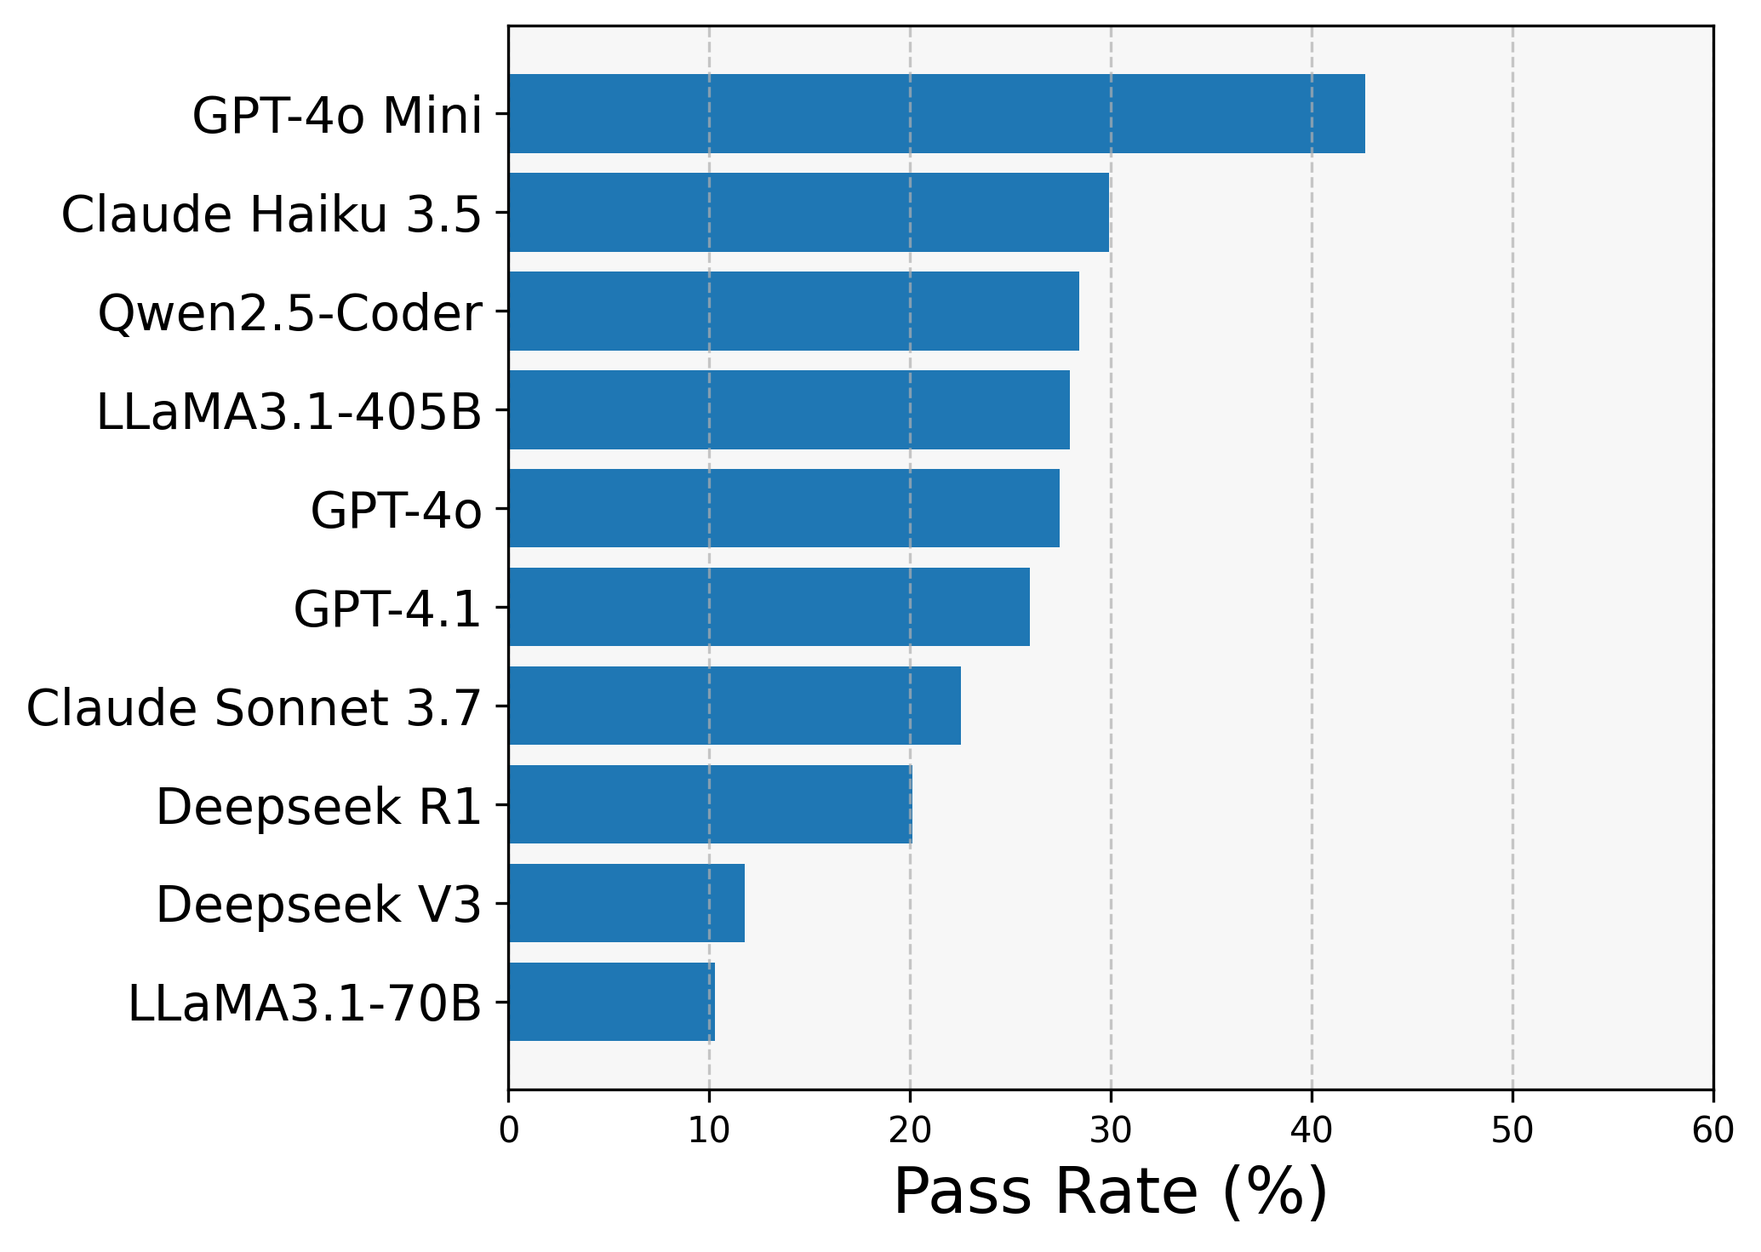
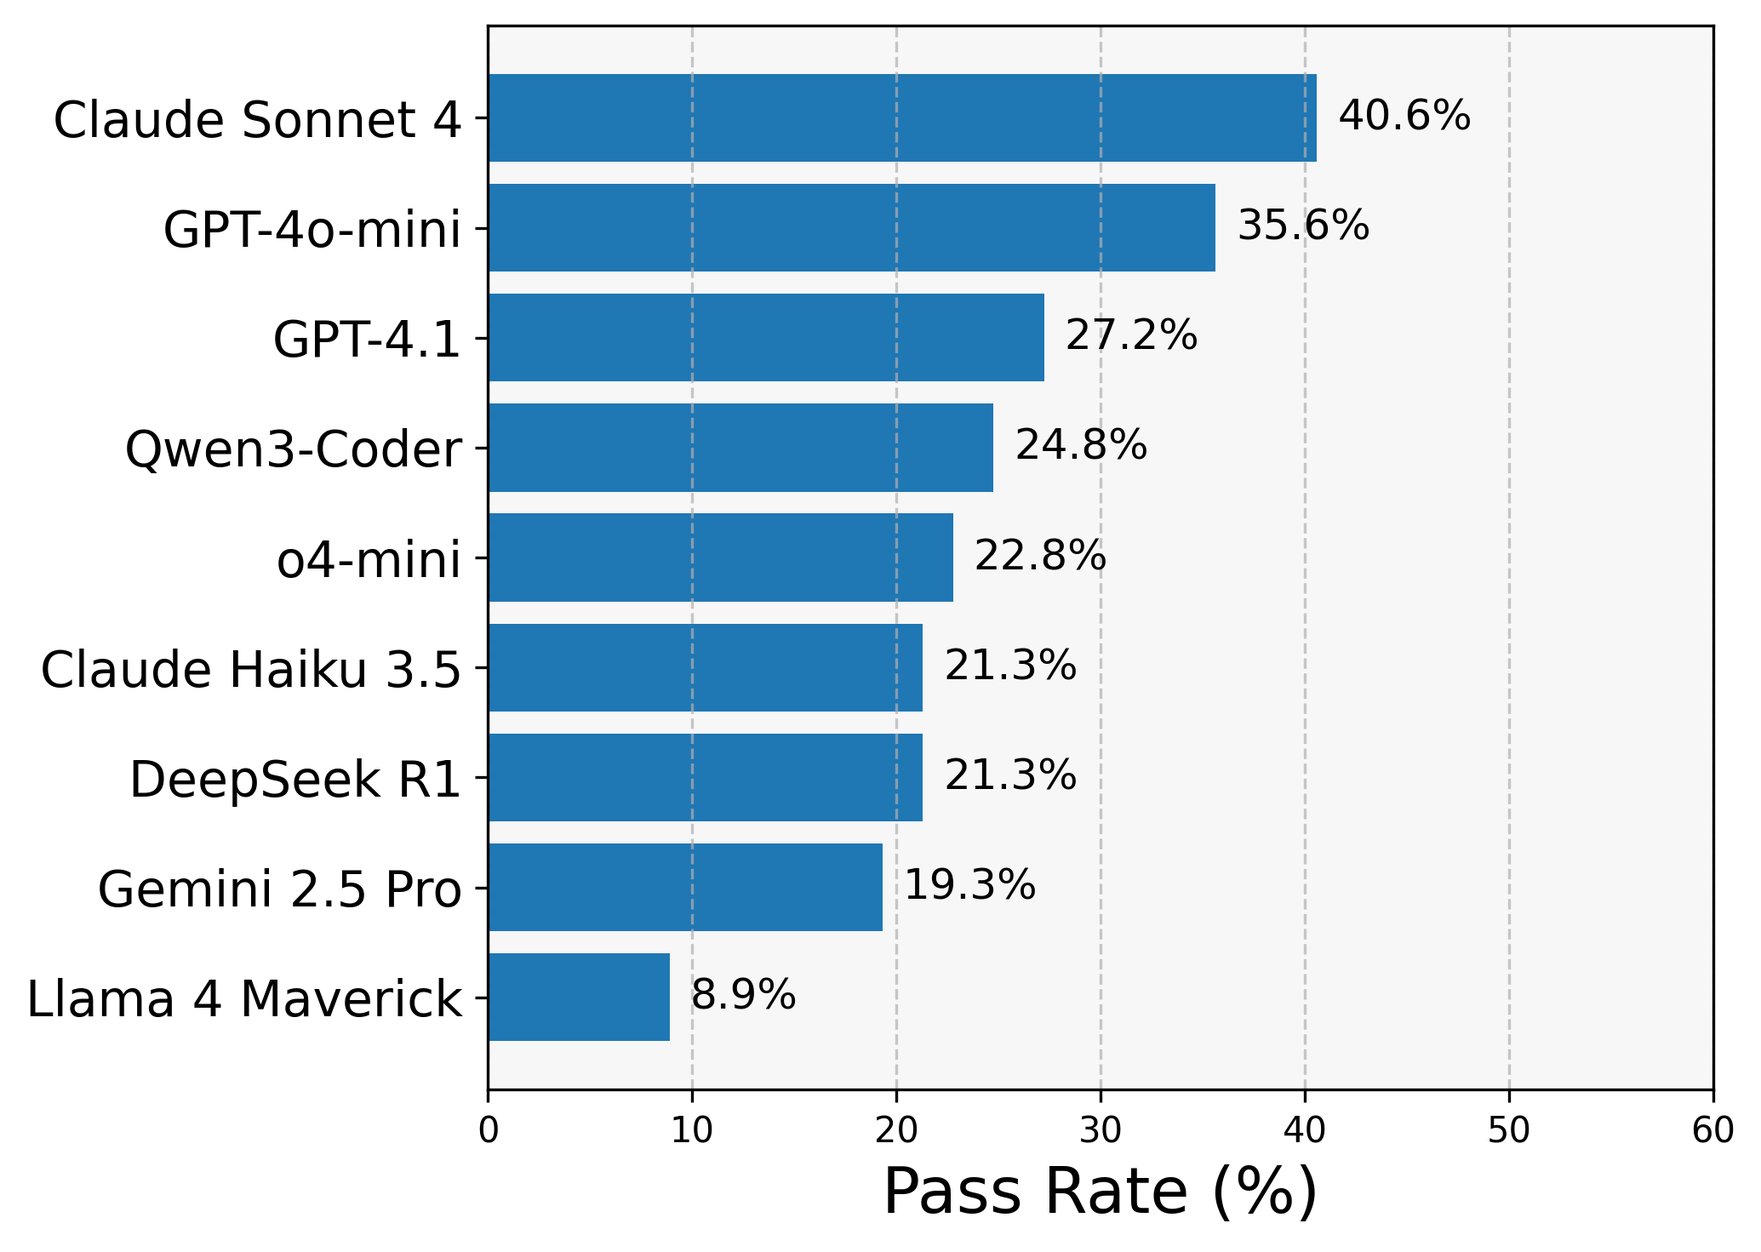
update blog

diff --git a/docs/blog.md b/docs/blog.md
@@ -2,28 +2,34 @@
 
 Neural Processing Units (NPUs) are a new class of accelerator now commonly seen on client devices like laptops and miniPCs. They can perform compute dense operations and accelerate various AI workloads, but like any accelerator they need expert knowledge and expertise to reap the performance gains. 
 
-These days AI assistants based on Large Language Models (LLMs) do a decent job at writing code in various programming languages. Recently there have also been amazing related works on generating code for hardware acceleration, namely [Kernelbench](https://arxiv.org/abs/2502.10517), [TritonBench](https://arxiv.org/abs/2502.14752), [AI CUDA Engineer](https://pub.sakana.ai/ai-cuda-engineer) for GPUs. This is challenging enough for existing hardware frameworks, however NPU programming is new and there is a training data gap between application level code and this type of highly specialized hardware accelerator code. NPUEval is a benchmark that enables us to iterate on LLM-based systems that are good at writing optimized code, based entirely on open-source tooling.
+AI assistants based on Large Language Models (LLMs) can do a decent job at writing code in various programming languages. Recently there have also been amazing related works on generating code for hardware acceleration, namely [Kernelbench](https://arxiv.org/abs/2502.10517), [TritonBench](https://arxiv.org/abs/2502.14752), [AI CUDA Engineer](https://pub.sakana.ai/ai-cuda-engineer) for GPUs. This is challenging enough for existing hardware frameworks, however NPU programming is new and there is a training data gap between application level code and this type of highly specialized hardware accelerator code. NPUEval is a benchmark that enables us to iterate on LLM-based systems that are good at writing optimized code, based entirely on open-source tooling.
 
 ## Why NPU Programming is Hard
 
-Unlike GPU programming, which has had years to mature with established communities and extensive documentation, NPU programming is still in its infancy. Developer communities are smaller and fragmented across different hardware platforms, meaning there's less optimized code available for LLMs to learn from during training.
+GPU programming investigated in previous works has had years to mature with established communities and extensive documentation. NPU programming on the other hand is still in its infancy. Developer communities are smaller and fragmented across different hardware platforms, meaning there's less optimized code available for LLMs to learn from during training.
 
 Writing efficient NPU kernels requires understanding vectorization – processing chunks of data simultaneously rather than one element at a time. To build intuition here's a very simple passthrough kernel example:
 
 **Scalar (inefficient) approach:**
 ```cpp
-for (int i=0; i<nbytes; i++) {
-    out_buffer[i] = in_buffer[i];
+void passthrough(uint8_t *in_buffer, uint8_t *out_buffer){
+    uint32_t nbytes = 512;
+    for (int i=0; i<nbytes; i++) {
+        out_buffer[i] = in_buffer[i];
+    }
 }
 ```
 
 **Vectorized (efficient) approach:**
 ```cpp
-for (int i = 0; i < loop_count; i++) {
-    buffer = ::aie::load_v64<>(in_buffer);
-    ::aie::store_v(out_buffer, buffer);
-    in_buffer += 64;
-    out_buffer += 64;
+void passthrough(uint8_t *in_buffer, uint8_t *out_buffer){
+    uint32_t loop_count = 8; // 512/64
+    for (int i = 0; i < loop_count; i++) {
+        auto buffer = ::aie::load_v<64>(in_buffer);
+        ::aie::store_v(out_buffer, buffer);
+        in_buffer += 64;
+        out_buffer += 64;
+    }
 }
 ```
 
@@ -63,7 +69,7 @@ The generated kernels are evaluated using the following criteria:
 
 - **Compilation** - does the kernel compile? Is it syntactically correct C++ code using valid NPU vector unit API calls and intrinsics?
 - **Functional correctness** - does the kernel produce the correct output for the given input (given a provided error tolerance)?
-- **Performance** - how long does the kernel take to execute and how efficiently is the VPU utilized?
+- **Performance** - how long does the kernel take to execute and how efficiently is the vector processing unit (VPU) utilized?
 
 ![](img/eval_overview2.png)
 
@@ -73,13 +79,13 @@ The dataset includes kernel prompts, behavioral models and test vectors. The eva
 
 ## How do we know if the kernels are any good?
 
-These days it's quite trivial to generate copious amounts of LLM generated code using APIs from various providers. The two main metrics we're after in our evaluation harness are functional correctness and vectorization efficiency.
+These days it's trivial to generate copious amounts of LLM generated code using APIs from various providers. The two main metrics we're after in our evaluation harness are functional correctness and performance (how efficient are the generated kernels).
 
 ### Functional Correctness
 
-The primary thing we care about is whether the kernels are **functionally** sound. Do the NPU outputs match our Python-generated reference values (within an acceptable threshold)? If they don't it's a non-starter.
+The primary thing we care about is whether the kernels are **functionally** sound. Do the NPU outputs match our Python-generated reference values (within an acceptable threshold)?
 
-This is fairly trivial to evaluate since we've abstracted all the memory management, buffer allocation, and device programming with simple function calls acting on NumPy arrays. We can get pass/fail for a single kernel test by comparing the arrays:
+This is trivial to evaluate since we've abstracted all the memory management, buffer allocation, and device programming with simple function calls acting on NumPy arrays. We can get pass/fail for a single kernel test by comparing the arrays:
 
 ```Python
 # Check if results are within tolerance
@@ -100,91 +106,155 @@ $$\text{vector score} = \frac{\text{vpu cycles}}{\text{total cycles}}$$
 
 <p style="text-align: center"><strong>Figure 2:</strong> Optimized kernel trace data.</p>
 
-Now this isn't a perfect solution because, for some kernels, scalar unit operations are unavoidable and not everything can be parallelized neatly - you'll never achieve 100% vectorization, and typically reaching values of 30-50% is considered pretty good. However this works well as an approximation since scalar (unoptimized) kernels will almost always end up with a score of 0%, utilizing none of the parallel processing capabilities of the core!
+Now this isn't a perfect solution because, for some kernels, scalar unit operations are unavoidable and not everything can be parallelized neatly - you'll never achieve 100% vectorization, and typically reaching values of 30-50% is considered really good. However this works well as an approximation since scalar (unoptimized) kernels will often end up with a score of 0%, utilizing none of the parallel processing capabilities of the core!
 
-Once there are more kernels out there (maybe even as part of this work) we might be able to amend our scoring and use these optimized kernels as baselines. However, for now our scoring method seems to work well at discerning good models.
+### Speedup relative to baseline kernels
+
+The NPUEval dataset comes with 102 unoptimized C++ implementations of reference kernels. We use these as part of CI to make sure that the code evaluation pipeline works. Since each NPU compute tile contains a scalar processing unit alongside a VPU, it can run regular C++ code with no vector operations. We compare the generated kernels against these baseline implementations and report out the speedup multiplier (how many times the generated kernel is faster than the unoptimized baseline).
+
+$$\text{speedup multiplier} = \frac{\text{total cycles (baseline)}}{\text{total cycles (generated kernel)}}$$
+
+Note that the difference between unoptimized and vectorized kernels can result in as much as a 300x improvement. This is why our speedup results tend to be very large numbers for this benchmark.
 
 ## Out-of-the-box LLM evaluation
 
-We first set the baseline for the models by testing them on the prompts directly (no compiler feedback, no prompt engineering). The baseline results are summarized in Figure 3 below.
+We first set the baseline results for the models by testing them on the prompts directly (no compiler feedback, no prompt engineering). The one-shot results are summarized in Figure 3. below.
 
 ::::{grid} 2
-
 :::{grid-item}
 :columns: 6
 
-![](img/outofbox_functional.png)
+```{image} img/outofbox_functional.png
+:width: 380px
+```
 
 <p style="text-align: center">(a) Functional results</p>
 
 :::
-
 :::{grid-item}
 :columns: 6
 
-![](img/outofbox_vector.png)
+```{image} img/outofbox_vector.png
+:width: 380px
+```
 
 <p style="text-align: center">(b) Vectorization score</p>
-:::
 
+:::
+::::
+
+::::{grid} 1
+:::{grid-item}
+
+```{image} img/outofbox_speedup.png
+:width: 380px
+:align: center
+```
+
+<p style="text-align: center">(c) Relative speedup over baseline</p>
+
+:::
 ::::
 
 <p style="text-align: center"><strong>Figure 3:</strong> Zero-shot results (ranked from top to bottom)</p>
 
-The most striking result was GPT-4o-mini topping the functional test score - outperforming much more powerful models even within its own family (GPT-4o, GPT-4.1). We found this to be a general trend with weaker models - Anthropic's Claude Haiku outperformed Sonnet as well. Turns out weak models tend to not optimize and go for the simplest scalar solutions, which leaves little room for error when producing a functionally correct kernel.
+**Functional correctness** It was quite striking to see GPT-4o-mini nearly topping the functional test score - outperforming much more powerful models even within its own family (GPT-4.1, o4-mini). We found this to be a general trend with weaker models - as they tend to not optimize and go for the simplest scalar solutions, which leaves little room for error when producing a functionally correct kernel.
 
-However, looking at the vectorization scores (our proxy for performance) - the story is entirely different. The average VPU utilization was much higher coming from more powerful models like DeepSeek-R1, and in this case - as expected - stronger GPT models like GPT-4.1 now outperformed their less capable counterparts.
+**Vectorization** Looking at the vectorization scores the story is entirely different. The average VPU utilization was much higher coming from more powerful models like Claude Sonnet 4, Gemini 2.5 Pro and DeepSeek R1, and in this case - as expected - stronger GPT models like GPT-4.1 now outperformed their less capable counterparts. Albeit the vectorization levels are low across all models.
 
 Strong models tend to *try* optimization, however they tend to hallucinate non-existent APIs or misuse vector ops. We hypothesize that this happens due to lack of NPU programming examples in pre-training data.
 
+**Speedup** Now let's look at the relative speedup of the generated kernels. Figure 3 (c) shows us that Claude 4 tops the chart again (this was surprising because it also performed best on functional tests!).
+
+To build intuition on the speedup score consider this example: 1 out of 102 kernels passes with a speedup of 204x. The final score (average speedup) will be $204/102 = 2$. So even though only a single generated kernel passed the tests it's still a 2x average improvement over baseline.
+
+## Pass@k results
+
+To explore the effects that the random nature of LLMs have on the produced solutions we run a series of tests with using a strong GPT model (GPT-4.1) and a weak one (GPT-4o-mini). All experiments run with temperature $T=0.4$.
+
+::::{grid} 2
+:::{grid-item}
+:columns: 6
+
+```{image} img/pass_at_k.png
+:width: 400px
+```
+
+<p style="text-align: center">(a) Functional results</p>
+
+:::
+:::{grid-item}
+:columns: 6
+
+```{image} img/speedup_at_k.png
+:width: 400px
+```
+
+<p style="text-align: center">(b) Speedup results</p>
+
+:::
+::::
+
+<p style="text-align: center"><strong>Figure 4:</strong> Contrasting a weak and strong model with pass@k results.</p>
+
+An interesting observation is that even though both models plateau on the functional tests, looking at the speedup we see only the weaker model plateauing. Higher capacity, powerful models are more likely to produce optimized kernels using AIE APIs hence scaling with $k$ speedup increased even if functional correctness didn't necessarily improve. 
+
+We did not observe the same behavior from the smaller model - even though it generates more functionally correct kernels, scaling $k$ does not improve performance. This suggests that while a smaller model can produce correct code more often, it lacks the capacity to consistently exploit parallelism and specialized intrinsics, so increasing $k$ simply yields more of the same baseline-quality kernels rather than progressively accumulating faster ones.
+
+## Adding Compiler Feedback and Vectorization Examples
+
+We added compiler feedback into the pipeline and a small collection of vectorized examples for Retrieval Augmented Generation (RAG). Check out the reference code how to set it up in our [github repo](https://github.com/AMDResearch/NPUEval/blob/main/scripts/run_completions.py). By default every model had 10 recompilation attempts and had the most relevant vectorized kernel added as context - just showing the LLM how to use the APIs was very useful in producing code that better utilized the APIs.
+
+All results below in Figure 5. have been produced with greedy decoding at $T=0.0$ and 10 recompilation attempts. We display results both with RAG and without.
+
+![](img/speedup_results.png)
+
+<p style="text-align: center"><strong>Figure 5:</strong> Performance comparison across models</p>
+
+As expected with the addition of RAG most models produced more optimized kernels according to the average speedup over baseline kernels. The best performance was achieved by Gemini 2.5 Pro overall with and **without** RAG. While DeepSeek R1 showed better out-of-the-box performance than Claude 4 Sonnet they seem to equally benefit from vectorization examples showing very similar speedup scores just below Gemini.
+
+Previously we saw that scaling the number of solutions (k) for models like GPT-4o-mini resulted in a speedup plateau, however introducing vectorized examples and showing these models how to use the correct APIs, dramatically improved the performance of even the weakest models.
+
 ## Failure Analysis
 
-The LLMs that passed many functional correctness tests ended up writing very inefficient solutions as shown, e.g., GPT-4o below -- these kernels do not utilize the NPU hardware to the fullest. Incorrect solutions will fail compilation often due to hallucinations as shown in (b) or misunderstanding of how to use vector APIs as shown in (c), where the model has successfully used the AIE APIs but was doing it in a loop one element at a time.
+We investigate some of the common failure modes across the models in instances where compilation failed, functional tests failed or performance was poor. Commonly seen problems are shown in Figure 6 below.
+
+Some LLMs that passed many functional correctness tests ended up writing very inefficient solutions as shown, e.g., Figure 6(a) -- these kernels do not utilize the NPU hardware to the fullest. Incorrect solutions will fail compilation often due to hallucinations as shown in (b) or misunderstanding of how to use vector APIs as shown in (c), where the model has successfully used the AIE APIs but was still processing elements in a loop one by one, not fully vectorizing.
 
 ::::{grid} 2
 
 :::{grid-item}
 :columns: 6
 
-![](img/abs_int8_sample.png)
-(a) Looping one element at a time (GPT-4o)
+![](img/scalar.png)
+(a) Looping one element at a time (Qwen3-Coder)
 
-![](img/complexabs_sample.png)
-(b) Hallucinated non-existent API (Llama-3.1 70b)
+![](img/hallucination.png)
+(b) Hallucinated non-existent headers and API calls (Gemini 2.5 Pro)
 :::
 
 :::{grid-item}
 :columns: 6
 
-![](img/complexabs_sample.png)
-(c) Aware of vectors and how to chop up the data but processing in scalar loops (Claude 3.7 Sonnet)
-
+![](img/partially_vectorized.png)
+(c) Aware of vectors and how to chop up the data but still processing in scalar loops (DeepSeek R1)
 
 :::
-
 ::::
 
-<p style="text-align: center"><strong>Figure 4:</strong> Examples of LLM errors in vectorized kernel generation: scalar loop with conditional (Claude 3.7 Sonnet), incomplete vectorization (GPT-4o), and hallucinated API usage (Llama-3.1 70b).</p>
+<p style="text-align: center"><strong>Figure 6:</strong> Examples of LLM errors in vectorized kernel generation: scalar loop with conditional (Qwen3-Coder), hallucinated API usage (Gemini 2.5 Pro) and incomplete vectorization (DeepSeek R1).</p>
 
-There seems to be baked in knowledge in these models however, Claude 3.7 Sonnet (c) does have a notion of vector_size and that it should be chunking the input buffer into vectors of 16 elements. There is certainly potential in these models, however more work needs to be done on the generation pipelines via either context engineering or even agents.
+More recent models like Gemini 2.5 Pro and Claude 4 seem to have baked in knowledge of AIE code optimization and even though they sometimes hallucinate APIs that do not exist, will try to produce optimized solutions. There is a great deal of potential in these models, however more work needs to be done on the generation pipelines via either context engineering or agentic workflows. As we've shown, simply adding compiler feedback can have tremendous performance improvements. And techniques like RAG and context engineering are very helpful in steering the LLMs towards more optimized solutions.
 
-## Performance Comparison with RAG
+## Conclusions
 
-We addedd compiler feedback into the pipeline and a small collection of vectorized examples for Retrieval Augmented Generation (RAG). Check out the reference code how to set it up in our [github repo](https://github.com/AMDResearch/NPUEval/blob/main/scripts/run_completions.py). By default every model had 10 recompilation attempts and had the most relevant vectorized kernel added as context - just showing the LLM how to use the APIs was very useful in producing more vectorized code.
+We have introduced NPUEval - a challenging new benchmark for evaluating LLMs on their ability to generate NPU kernels. We found that weaker models such as GPT-4o-mini were really good at generating passing code, however they did not produce performant kernels and plateaued when being evaluated on speedup. We have shown that even weaker models, when provided with vectorized examples, can achieve performance comparable to their stronger counterparts.
 
-![](img/vectorization_results.png)
-
-<p style="text-align: center"><strong>Figure 5:</strong> Performance comparison across models</p>
-
-As expected with RAG most models produced more optimized kernels according to the vectorization score. However, the best performance was achieved by the reasoning DeepSeek-R1 model, and RAG only downgraded the performance... What happened here?
-
-We dive a bit deeper into why this happened in our paper, but in general DeepSeek-R1 was already proficient in its use of AIE APIs. The problem was that the RAG examples included Chess compiler pragmas, which didn't improve results in the [LLVM-AIE](https://github.com/Xilinx/llvm-aie) based evaluation. Why did all other models improve then? Well, other models were not as good at using the vector APIs as DeepSeek, hence showing *any* examples using this API was enough to shoot performance upwards.
-
-It is very likely that some of these issues could be resolved by better system prompt engineering - like prefacing the model with specific compiler technologies that will be used to evaluate its solutions. We will leave these explorations for future work.
+Gemini 2.5 Pro was by far the best model at generating efficient kernels, alongside Claude 4 Sonnet and DeepSeek R1, with the best out-of-the-box understanding of AIE APIs. We believe that these models are very promising, especially when combined with agentic tooling and context engineering. We are excited to see how they will be used in future code generation pipelines to improve upon the results achieved in this work.
 
 ## What's Next
 
-NPUs are still a new class of accelerator and its impressive how good some models already are at writing code for them. This is only the beginning and it will be exciting to see how new techniques like code generating agents will improve upon this benchmark.
+NPUs are still a new class of accelerator and it's impressive how good some models already are at writing code for them. This is only the beginning, and it will be exciting to see how new techniques, such as code-generating agents, will improve upon this benchmark.
 
 The Python behavioral models can be re-used along with the infrastructure we have built here to generate datasets targeting any programming model. We plan to use the same methodology to extend this work to other accelerator families.
 
